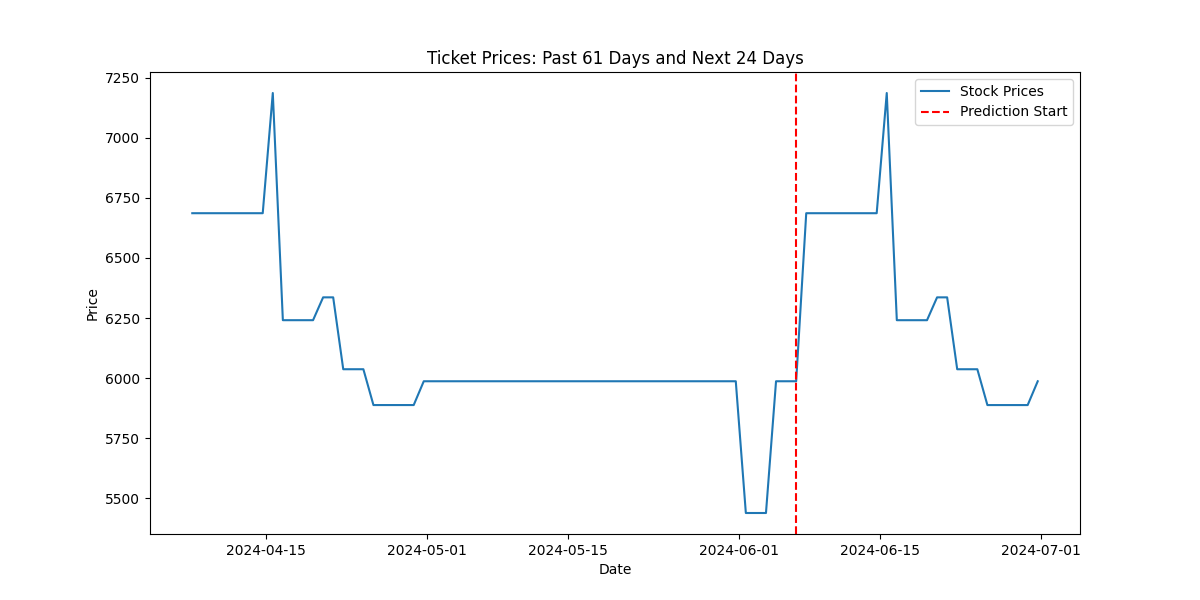
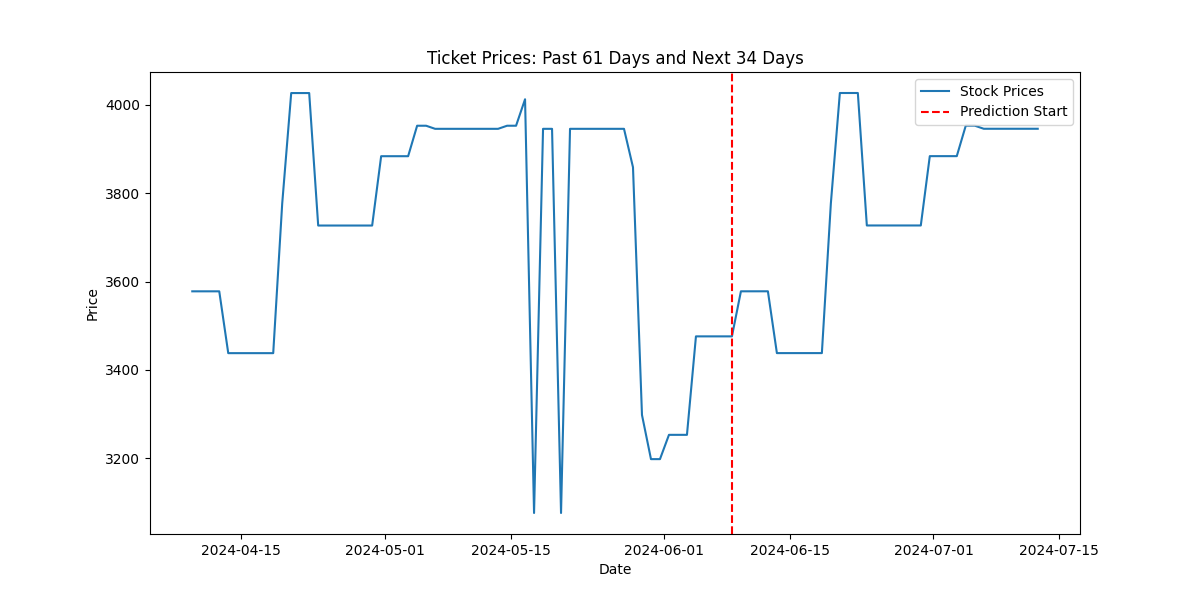
minor changes

diff --git a/webpage/app.py b/webpage/app.py
@@ -12,7 +12,7 @@ from serpapi import GoogleSearch
 app = Flask(__name__)
 
 # Load the trained model
-model = load_model('../multi_rnn_model.h5')
+model = load_model('../flight_model.h5')
 
 # Function to predict future prices
 def predict_future_prices(data, model, time_step, days):
@@ -76,7 +76,7 @@ def predict():
     d = (datetime.strptime(date_str, "%Y-%m-%d").date() - datetime.today().date()).days
 
     # Predict the future prices
-    future_predictions_normalized = predict_future_prices(predict_data_normalized, model, time_step=10, days=d)
+    future_predictions_normalized = predict_future_prices(predict_data_normalized, model, time_step=3, days=d)
 
     # Reverse the normalization for predicted data
     padded_array = np.pad(future_predictions_normalized, (0, 61 - future_predictions_normalized.shape[0]), mode='constant', constant_values=1)
